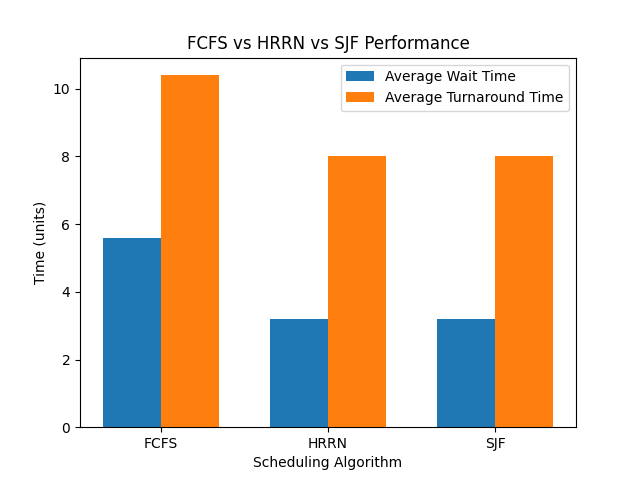
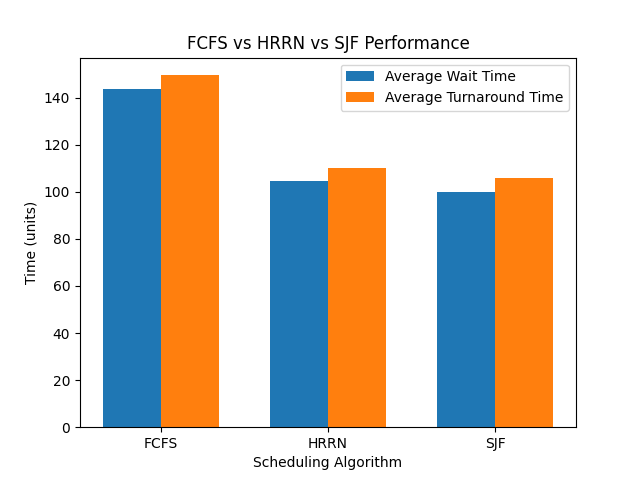
Minor changes/adjustment

diff --git a/main.py b/main.py
@@ -168,12 +168,13 @@ def calculateThroughput(processes):
 
 
 def main():
-    processNum = 5
+    processNum = 50
     processes = []
 
     # Generate random processes
     for process in range(processNum):
-        processes.append(Process(process+1, randint(0, 10), randint(1, 10), randint(1, 5)))
+        # pid, arrivalTime, burstTime, priority
+        processes.append(Process(process+1, randint(0, 0), randint(1, 10), randint(1, 5)))
     print(f"Original Processes:\n{processes}\n")
 
     # Make deep copies for each algorithm so original data is untouched
